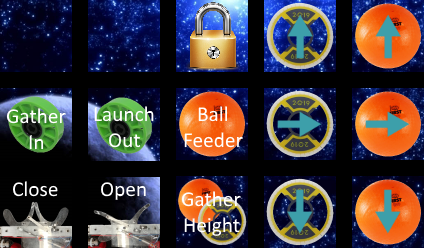
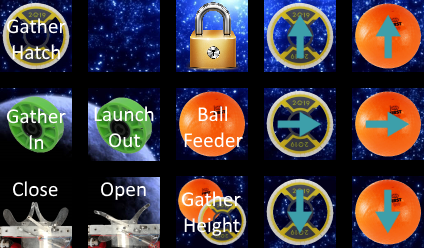
Added refresh button for camera stream and changed the Stream Deck image to include a manual hatch gather button.

Changed region(s): [[0.0, 0.0, 0.184, 0.2823]]

diff --git a/Dashboard/Dashboard/LimeLight.xaml b/Dashboard/Dashboard/LimeLight.xaml
@@ -14,16 +14,20 @@
             <RowDefinition Height="*"/>
         </Grid.RowDefinitions>
         <Grid.ColumnDefinitions>
-            <ColumnDefinition Width="*"/>
-            <ColumnDefinition Width="*"/>
+            <ColumnDefinition Width="2*"/>
+            <ColumnDefinition Width="2*"/>
+            <ColumnDefinition Width="2*"/>
             <ColumnDefinition Width="*"/>
         </Grid.ColumnDefinitions>
-        <TextBlock x:Name="ConectionStatus" Text="Trying to connect..." FontSize="20" FontWeight="Bold" Grid.Row="1" Grid.Column="0" Grid.ColumnSpan="3" TextAlignment="Center" VerticalAlignment="Center"/>
-        <TextBlock x:Name="Status" Text="Limelight View" FontSize="20" FontWeight="Bold" Grid.Row="0" Grid.RowSpan="1" Grid.Column="0" Grid.ColumnSpan="3" Foreground="LimeGreen" Background="Black" TextAlignment="Center"/>
+        <TextBlock x:Name="ConectionStatus" Text="Trying to connect..." FontSize="20" FontWeight="Bold" Grid.Row="1" Grid.Column="0" Grid.ColumnSpan="4" TextAlignment="Center" VerticalAlignment="Center"/>
+        <TextBlock x:Name="Status" Text="Limelight View" FontSize="20" FontWeight="Bold" Grid.Row="0" Grid.RowSpan="1" Grid.Column="0" Grid.ColumnSpan="4" Foreground="LimeGreen" Background="Black" TextAlignment="Center"/>
         <TextBox x:Name="xDisplay" Margin="5" Grid.Row="2" Grid.Column="0" IsEnabled="False" Text="X:"/>
         <TextBox x:Name="yDisplay" Margin="5" Grid.Row="2" Grid.Column="1" IsEnabled="False" Text="Y:"/>
         <TextBox x:Name="aDisplay" Margin="5" Grid.Row="2" Grid.Column="2" IsEnabled="False" Text="A:"/>
-        <Image x:Name="MJpegView" Grid.Row="1" Grid.Column="0" Grid.ColumnSpan="3" Margin="5" />
+        <Button x:Name="Refresh" Grid.Column="3" Grid.Row="2" Margin="5" Click="Refresh_Click">
+            <Image Source="Images/refresh.png"/>
+        </Button>
+        <Image x:Name="MJpegView" Grid.Row="1" Grid.Column="0" Grid.ColumnSpan="4" Margin="5"/>
     </Grid>
 
 </UserControl>

diff --git a/Dashboard/Dashboard/LimeLight.xaml.cs b/Dashboard/Dashboard/LimeLight.xaml.cs
@@ -64,5 +64,15 @@ namespace Dashboard
         {
             aDisplay.Text = "A: " + A.ToString();
         }
+
+        private void Refresh_Click(object sender, RoutedEventArgs e)
+        {
+            if (!Errored)
+            {
+                _mjpeg.StopStream();
+            }
+            Errored = false;
+            _mjpeg.ParseStream(StreamAddress);
+        }
     }
 }
